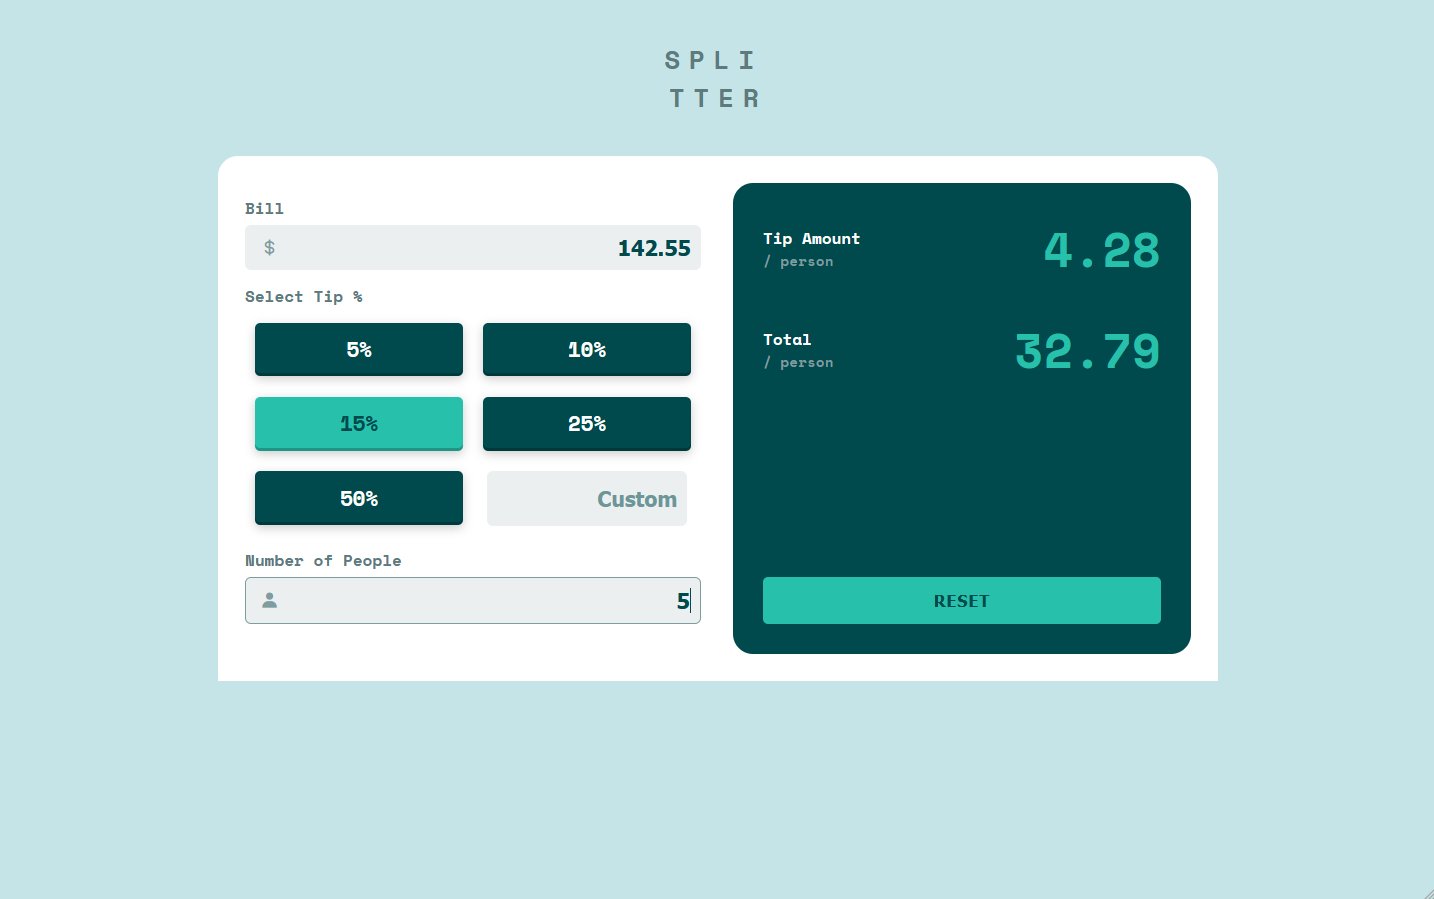
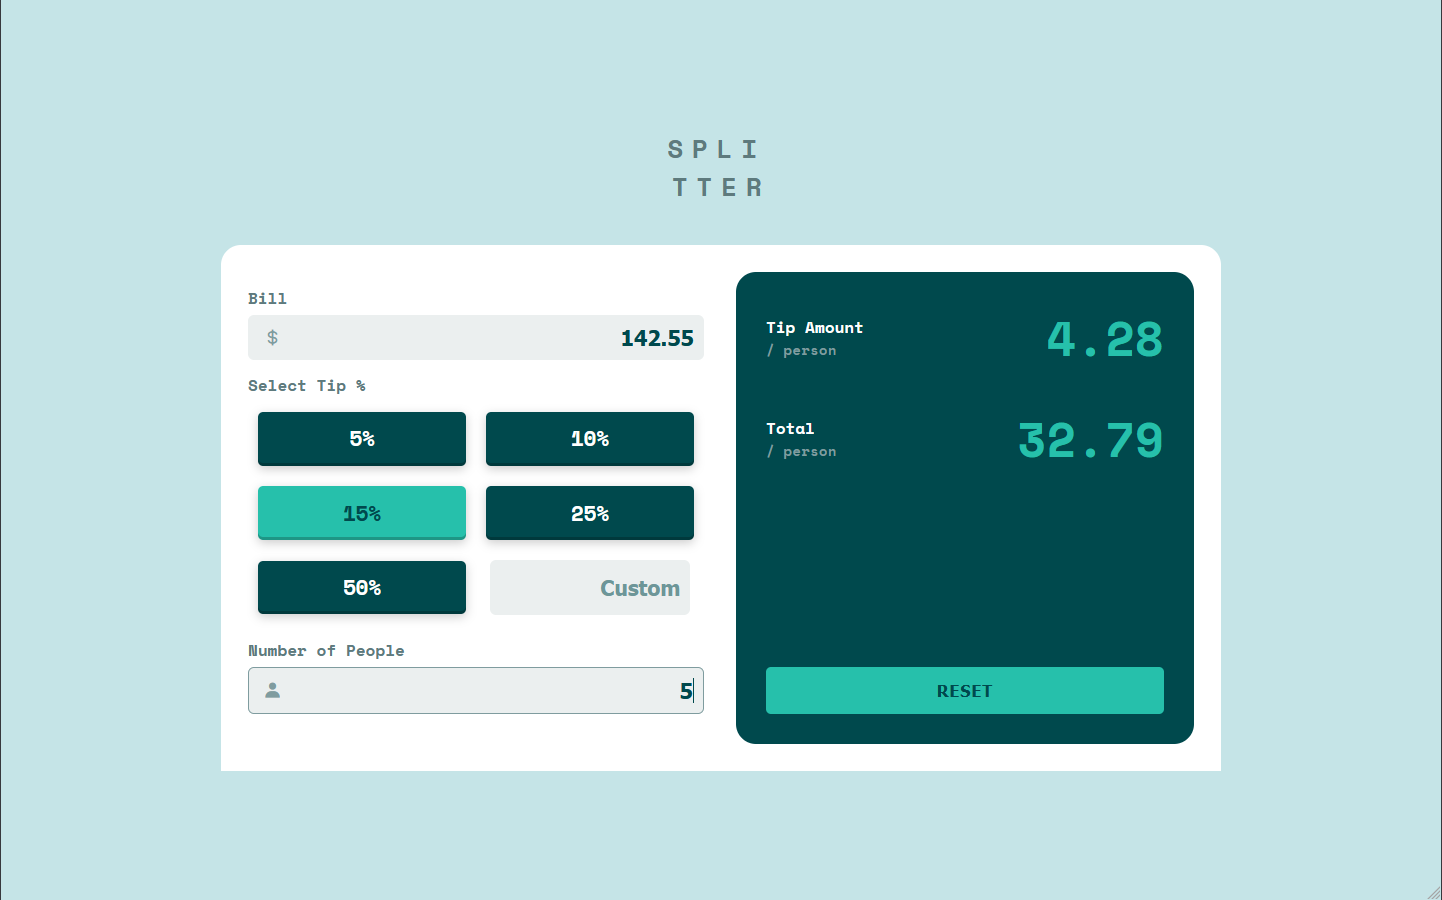
add live site to read me and hot fix to styles

diff --git a/styles/styles.css b/styles/styles.css
@@ -207,10 +207,23 @@ button:hover{
 
 /* Extra large devices (large laptops and desktops, 1200px and up) */
 @media only screen and (min-width: 1200px) {
+    body{
+        height: 100vh;
+        display: flex;
+        flex-direction: column;
+        justify-content: center;
+        align-items: center;
+    }
+
     main{
         display: flex;
         max-width: 1000px;
         gap: 2rem;
+        width: 80%;
+    }
+
+    h1{
+        margin-top: 0;
     }
 
     .bill{

diff --git a/README.md b/README.md
@@ -32,8 +32,8 @@ Users should be able to:
 
 ### Links
 
-- Live Site URL: [Add live site URL here](https://your-live-site-url.com)
-- Solution URL: [Add solution URL here](https://your-solution-url.com)
+- Live Site URL: [Wtach it live](https://tip-calculator-app-gules.vercel.app/)
+- Solution URL: [Compare design vs final version here](https://www.frontendmentor.io/solutions/responsive-htmlcssjs-tip-calculator-app-4r0joYKdOw)
 
 ## My process
 
